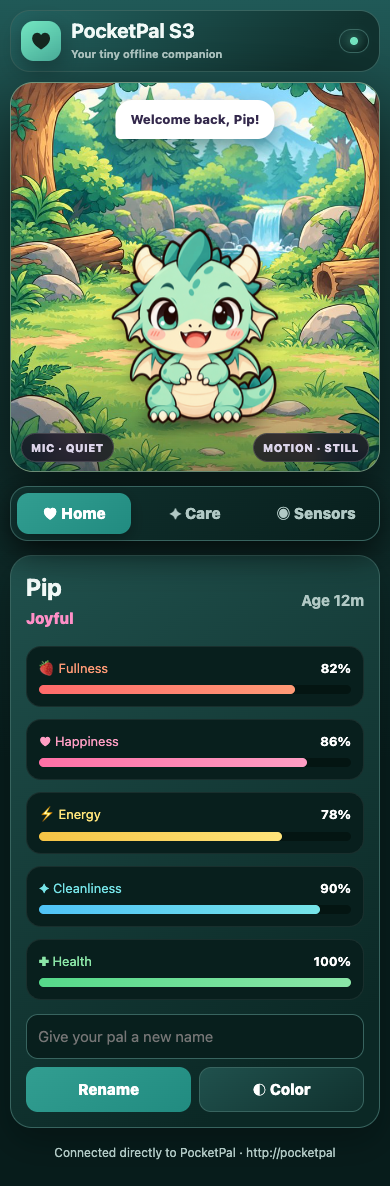
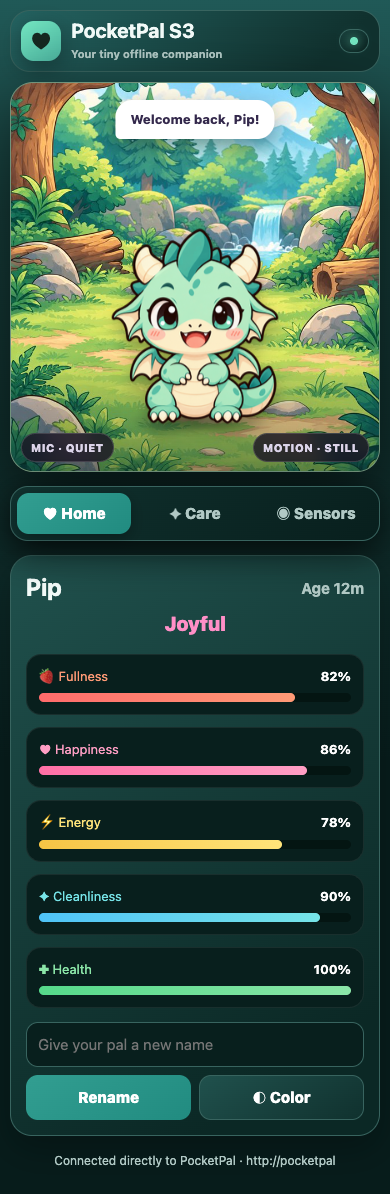
feat: center and enlarge Home mood status

diff --git a/src/WebPortal.cpp b/src/WebPortal.cpp
@@ -27,7 +27,7 @@ const char kPage[] PROGMEM = R"HTML(
 *{box-sizing:border-box}body{margin:0;min-height:100vh;background:linear-gradient(180deg,var(--page-top) 0,var(--base) 210px,var(--bg) 760px);background-color:var(--bg);font:15px/1.4 ui-rounded,system-ui,-apple-system,sans-serif;color:var(--ink)}button,input,select{font:inherit}button{color:inherit}main{width:min(100%,820px);margin:auto;padding:18px 18px 34px}.topbar{display:flex;align-items:center;justify-content:space-between;margin:0 0 14px;padding:12px;border:1px solid var(--line);border-radius:20px;background:linear-gradient(135deg,var(--header-top),var(--surface) 85%)}.brand{display:flex;align-items:center;gap:10px}.logo{display:grid;place-items:center;width:40px;height:40px;border-radius:13px;background:linear-gradient(145deg,var(--mint),#4bb39f);color:#152820;font-size:23px;box-shadow:0 8px 24px #0005}.brand h1{margin:0;font-size:22px;line-height:1}.brand small{display:block;margin-top:5px;color:var(--muted);font-weight:650}.online{display:flex;align-items:center;gap:7px;padding:7px 10px;border:1px solid var(--line);border-radius:99px;background:linear-gradient(145deg,var(--surface2),var(--input));color:var(--ink);font-size:12px;font-weight:800}.dot{width:8px;height:8px;border-radius:50%;background:var(--mint);box-shadow:0 0 12px var(--mint)}
 .room{position:relative;height:390px;overflow:hidden;border:1px solid #71937c;border-radius:30px;background:#365941 url('/room/forest-wide.jpg') center center/cover no-repeat;box-shadow:0 24px 70px #0009}.room:before{content:'';position:absolute;inset:0;background:linear-gradient(transparent 70%,#10251d66);pointer-events:none}.ground-shadow{position:absolute;z-index:2;left:50%;bottom:45px;width:165px;height:25px;transform:translateX(-50%);border-radius:50%;background:radial-gradient(ellipse,#16382980,transparent 70%);filter:blur(3px)}.bubble{position:absolute;z-index:4;top:22px;left:50%;max-width:min(330px,62%);transform:translateX(-50%);padding:10px 15px;border-radius:17px 17px 17px 5px;background:#fff;color:#34294c;font-weight:800;text-align:center;box-shadow:0 8px 22px #0005}.room-meta{position:absolute;z-index:5;left:18px;right:18px;bottom:13px;display:flex;justify-content:space-between;pointer-events:none}.chip{padding:6px 9px;border:1px solid #ffffff25;border-radius:99px;background:#171122c9;backdrop-filter:blur(8px);color:#ddd5ea;font-size:11px;font-weight:850;text-transform:uppercase;letter-spacing:.04em}
 .pet{position:absolute;z-index:3;left:50%;bottom:49px;width:230px;height:230px;transform:translateX(-50%);transform-origin:50% 95%;animation:bob 2.2s ease-in-out infinite}.dragon{display:block;width:100%;height:100%;object-fit:contain;filter:drop-shadow(0 10px 8px #0004)}.pet.sleeping{animation:none}.pet.sleeping:after{content:'Z z';position:absolute;right:12px;top:72px;color:#fff;font-weight:900;font-size:23px}.pet.excited{animation:bob .72s ease-in-out infinite}.pet.surprised{animation:jump .42s ease-out infinite}.pet.motion-tilt-left{animation:none;transform:translateX(-56%) rotate(-7deg)}.pet.motion-tilt-right{animation:none;transform:translateX(-44%) rotate(7deg)}.pet.motion-tilt-forward{animation:none;transform:translateX(-50%) scale(.94)}.pet.motion-tilt-back{animation:none;transform:translateX(-50%) scale(1.06)}.pet.motion-shake{animation:shake .18s linear infinite}.pet.motion-rocking{animation:rock .7s ease-in-out infinite}
-.tabs{display:grid;grid-template-columns:repeat(3,1fr);gap:7px;margin:14px 0;padding:6px;border:1px solid var(--line);border-radius:18px;background:linear-gradient(135deg,var(--surface),var(--input))}.tab{border:0;border-radius:12px;padding:10px;background:transparent;color:var(--muted);font-weight:850;cursor:pointer}.tab.active{background:linear-gradient(145deg,var(--button-top),var(--accent));color:#fff;box-shadow:0 5px 14px #0004}.panel{display:none}.panel.active{display:block}.card{padding:18px;border:1px solid var(--line);border-radius:22px;background:linear-gradient(145deg,var(--card-top),var(--panel) 85%);box-shadow:0 14px 35px #0004}.section-title{display:flex;align-items:flex-start;justify-content:space-between;gap:12px;margin-bottom:15px}.section-title h2,.identity h2{margin:0;font-size:24px}.section-title p{margin:4px 0 0;color:var(--muted)}.identity{display:flex;align-items:center;justify-content:space-between;gap:12px}.mood{margin-top:3px;color:var(--pink);font-weight:850;text-transform:capitalize}.age{color:var(--muted);font-weight:700}.stats{display:grid;grid-template-columns:repeat(2,1fr);gap:12px;margin-top:17px}.stat{padding:12px;border:1px solid #ffffff12;border-radius:15px;background:var(--input)}.stat label{display:flex;justify-content:space-between;color:var(--muted);font-size:13px}.stat b{color:#fff}.track,.meter{height:9px;margin-top:8px;border-radius:99px;background:var(--track);overflow:hidden}.fill,.meter-fill{height:100%;width:0;border-radius:inherit;background:linear-gradient(90deg,var(--pink),var(--sun));transition:width .3s}.settings{display:flex;gap:8px;margin-top:14px}.settings input{min-width:0;flex:1;border:1px solid var(--line);border-radius:12px;padding:11px;background:var(--input);color:#fff}.primary,.secondary{border:0;border-radius:12px;padding:11px 14px;background:linear-gradient(145deg,var(--button-top),var(--accent));color:#fff;font-weight:850;cursor:pointer}.secondary{border:1px solid var(--line);background:linear-gradient(145deg,var(--card-top),var(--surface))}.primary:active,.secondary:active,.action:active{transform:translateY(1px)}
+.tabs{display:grid;grid-template-columns:repeat(3,1fr);gap:7px;margin:14px 0;padding:6px;border:1px solid var(--line);border-radius:18px;background:linear-gradient(135deg,var(--surface),var(--input))}.tab{border:0;border-radius:12px;padding:10px;background:transparent;color:var(--muted);font-weight:850;cursor:pointer}.tab.active{background:linear-gradient(145deg,var(--button-top),var(--accent));color:#fff;box-shadow:0 5px 14px #0004}.panel{display:none}.panel.active{display:block}.card{padding:18px;border:1px solid var(--line);border-radius:22px;background:linear-gradient(145deg,var(--card-top),var(--panel) 85%);box-shadow:0 14px 35px #0004}.section-title{display:flex;align-items:flex-start;justify-content:space-between;gap:12px;margin-bottom:15px}.section-title h2,.identity h2{margin:0;font-size:24px}.section-title p{margin:4px 0 0;color:var(--muted)}.identity{display:flex;align-items:center;justify-content:space-between;gap:12px}.mood{margin-top:6px;text-align:center;font-size:20px;line-height:1.3;color:var(--pink);font-weight:850;text-transform:capitalize}.age{color:var(--muted);font-weight:700}.stats{display:grid;grid-template-columns:repeat(2,1fr);gap:12px;margin-top:17px}.stat{padding:12px;border:1px solid #ffffff12;border-radius:15px;background:var(--input)}.stat label{display:flex;justify-content:space-between;color:var(--muted);font-size:13px}.stat b{color:#fff}.track,.meter{height:9px;margin-top:8px;border-radius:99px;background:var(--track);overflow:hidden}.fill,.meter-fill{height:100%;width:0;border-radius:inherit;background:linear-gradient(90deg,var(--pink),var(--sun));transition:width .3s}.settings{display:flex;gap:8px;margin-top:14px}.settings input{min-width:0;flex:1;border:1px solid var(--line);border-radius:12px;padding:11px;background:var(--input);color:#fff}.primary,.secondary{border:0;border-radius:12px;padding:11px 14px;background:linear-gradient(145deg,var(--button-top),var(--accent));color:#fff;font-weight:850;cursor:pointer}.secondary{border:1px solid var(--line);background:linear-gradient(145deg,var(--card-top),var(--surface))}.primary:active,.secondary:active,.action:active{transform:translateY(1px)}
 .actions{display:grid;grid-template-columns:repeat(5,1fr);gap:10px}.action{min-height:104px;border:1px solid #ffffff17;border-radius:18px;padding:13px 8px;background:linear-gradient(145deg,var(--card-top),var(--panel) 85%);color:#fff;cursor:pointer}.action span{display:block;font-size:29px}.action b{display:block;margin-top:7px}.action small{display:block;margin-top:3px;color:var(--muted);font-size:11px}.action:hover{border-color:var(--muted);background:var(--accent-hover)}.sensor-grid{display:grid;grid-template-columns:1fr 1fr;gap:12px}.sensor{padding:16px;border:1px solid var(--line);border-radius:18px;background:linear-gradient(145deg,var(--card-top),var(--panel) 85%)}.sensor.motion{border-color:var(--line)}.sensor-head{display:flex;justify-content:space-between;align-items:center;gap:10px}.sensor-title{font-weight:900}.sensor-state{color:var(--mint);font-size:12px;font-weight:900;text-transform:capitalize}.meter{height:12px;margin:14px 0 12px}.meter-fill{background:linear-gradient(90deg,var(--mint),var(--sun),var(--pink))}.controls{display:flex;align-items:center;justify-content:space-between;gap:8px;flex-wrap:wrap}.controls label{color:var(--muted);font-size:12px}.controls select{margin-left:4px;padding:8px;border:1px solid var(--line);border-radius:10px;background:var(--input);color:#fff}.note{margin:12px 0 0;color:var(--muted);font-size:12px}.privacy{margin-top:12px;padding:12px;border:1px solid var(--line);border-radius:14px;background:var(--input);color:var(--muted);font-size:12px}.foot{text-align:center;color:var(--muted);font-size:12px;margin:17px 0 0}
 @keyframes bob{50%{transform:translate(-50%,-7px)}}@keyframes jump{50%{transform:translate(-50%,-18px) scale(1.06)}}@keyframes shake{25%{transform:translateX(-57%) rotate(-4deg)}75%{transform:translateX(-43%) rotate(4deg)}}@keyframes rock{25%{transform:translateX(-50%) rotate(-9deg)}75%{transform:translateX(-50%) rotate(9deg)}}
 @media(max-width:620px){main{padding:10px 10px 24px}.topbar{margin:0 0 10px;padding:10px}.brand h1{font-size:20px}.brand small{font-size:11px}.online span:last-child{display:none}.room{height:390px;border-radius:23px;background-image:url('/room/forest-mobile.jpg');background-position:center 65%}.ground-shadow{bottom:36px;width:140px}.bubble{top:17px;max-width:66%;font-size:13px}.pet{bottom:39px;width:200px;height:200px}.room-meta{left:10px;right:10px;bottom:9px}.tabs{position:sticky;z-index:20;bottom:8px;order:3;box-shadow:0 10px 35px #000b}.stats,.sensor-grid{grid-template-columns:1fr}.actions{grid-template-columns:repeat(2,1fr)}.action{min-height:91px}.action:last-child{grid-column:1/-1}.card{padding:15px}.settings{flex-direction:column}}
@@ -53,7 +53,7 @@ const char kPage[] PROGMEM = R"HTML(
 <header class="topbar"><div class="brand"><div class="logo">♥</div><div><h1>PocketPal S3</h1><small>Your tiny offline companion</small></div></div><div class="online"><span class="dot"></span><span>Local &amp; live</span></div></header>
 <section class="room" aria-label="PocketPal forest clearing"><div id="bubble" class="bubble" aria-live="polite">Waking up…</div><div class="ground-shadow"></div><div id="pet" class="pet"><img id="dragon" class="dragon" src="/pet/idle.png" alt="Mint-green PocketPal dragon" width="240" height="240"></div><div class="room-meta"><span id="soundChip" class="chip">Mic · calibrating</span><span id="motionChip" class="chip">Motion · calibrating</span></div></section>
 <nav class="tabs" aria-label="PocketPal sections"><button class="tab active" data-panel="home" onclick="showPanel('home')">♥ Home</button><button class="tab" data-panel="care" onclick="showPanel('care')">✦ Care</button><button class="tab" data-panel="sensors" onclick="showPanel('sensors')">◉ Sensors</button></nav>
-<section id="home" class="panel active"><div class="card"><div class="identity"><div><h2 id="name">Pip</h2><div id="mood" class="mood">Content</div></div><div id="age" class="age">Age 0m</div></div><div id="stats" class="stats"></div><form class="settings" onsubmit="renamePet(event)"><input id="newName" maxlength="12" aria-label="New pet name" placeholder="Give your pal a new name"><button class="primary">Rename</button><button id="colorButton" class="secondary" type="button" aria-expanded="false" aria-controls="themePicker" onclick="toggleColors()">◐ Color</button></form><fieldset id="themePicker" class="theme-picker" hidden><legend>Choose your color</legend><div class="theme-options"><button type="button" class="theme-choice" data-theme-choice="teal" aria-pressed="true" onclick="setTheme('teal')"><span class="swatch" style="--swatch:#163D3A" aria-hidden="true"></span>Deep Forest Teal</button><button type="button" class="theme-choice" data-theme-choice="purple" aria-pressed="false" onclick="setTheme('purple')"><span class="swatch" style="--swatch:#513c77" aria-hidden="true"></span>Purple</button><button type="button" class="theme-choice" data-theme-choice="pine" aria-pressed="false" onclick="setTheme('pine')"><span class="swatch" style="--swatch:#1E352D" aria-hidden="true"></span>Dark Pine</button><button type="button" class="theme-choice" data-theme-choice="navy" aria-pressed="false" onclick="setTheme('navy')"><span class="swatch" style="--swatch:#172A3A" aria-hidden="true"></span>Deep Navy</button><button type="button" class="theme-choice" data-theme-choice="charcoal" aria-pressed="false" onclick="setTheme('charcoal')"><span class="swatch" style="--swatch:#292A2D" aria-hidden="true"></span>Warm Charcoal</button><button type="button" class="theme-choice" data-theme-choice="white" aria-pressed="false" onclick="setTheme('white')"><span class="swatch" style="--swatch:#ffffff" aria-hidden="true"></span>Soft White</button></div><p id="colorMessage" class="color-message" role="status">Saved on your PocketPal.</p></fieldset></div></section>
+<section id="home" class="panel active"><div class="card"><div class="identity"><h2 id="name">Pip</h2><div id="age" class="age">Age 0m</div></div><div id="mood" class="mood">Content</div><div id="stats" class="stats"></div><form class="settings" onsubmit="renamePet(event)"><input id="newName" maxlength="12" aria-label="New pet name" placeholder="Give your pal a new name"><button class="primary">Rename</button><button id="colorButton" class="secondary" type="button" aria-expanded="false" aria-controls="themePicker" onclick="toggleColors()">◐ Color</button></form><fieldset id="themePicker" class="theme-picker" hidden><legend>Choose your color</legend><div class="theme-options"><button type="button" class="theme-choice" data-theme-choice="teal" aria-pressed="true" onclick="setTheme('teal')"><span class="swatch" style="--swatch:#163D3A" aria-hidden="true"></span>Deep Forest Teal</button><button type="button" class="theme-choice" data-theme-choice="purple" aria-pressed="false" onclick="setTheme('purple')"><span class="swatch" style="--swatch:#513c77" aria-hidden="true"></span>Purple</button><button type="button" class="theme-choice" data-theme-choice="pine" aria-pressed="false" onclick="setTheme('pine')"><span class="swatch" style="--swatch:#1E352D" aria-hidden="true"></span>Dark Pine</button><button type="button" class="theme-choice" data-theme-choice="navy" aria-pressed="false" onclick="setTheme('navy')"><span class="swatch" style="--swatch:#172A3A" aria-hidden="true"></span>Deep Navy</button><button type="button" class="theme-choice" data-theme-choice="charcoal" aria-pressed="false" onclick="setTheme('charcoal')"><span class="swatch" style="--swatch:#292A2D" aria-hidden="true"></span>Warm Charcoal</button><button type="button" class="theme-choice" data-theme-choice="white" aria-pressed="false" onclick="setTheme('white')"><span class="swatch" style="--swatch:#ffffff" aria-hidden="true"></span>Soft White</button></div><p id="colorMessage" class="color-message" role="status">Saved on your PocketPal.</p></fieldset></div></section>
 <section id="care" class="panel"><div class="card"><div class="section-title"><div><h2>Care time</h2><p>Every little action shapes your pal’s day.</p></div></div><div class="actions"><button class="action" onclick="act('feed')"><span>🍓</span><b>Feed</b><small>Restore fullness</small></button><button class="action" onclick="act('play')"><span>🎾</span><b>Play</b><small>Build happiness</small></button><button class="action" onclick="act('clean')"><span>🫧</span><b>Clean</b><small>Fresh and sparkly</small></button><button class="action" onclick="act('sleep')"><span>🌙</span><b>Sleep</b><small>Rest or wake up</small></button><button class="action" onclick="act('pet')"><span>💗</span><b>Pet</b><small>Share affection</small></button></div></div></section>
 <section id="sensors" class="panel"><div class="card"><div class="section-title"><div><h2>Reactions</h2><p>Live signals processed privately on your PocketPal.</p></div></div><div class="sensor-grid"><article class="sensor"><div class="sensor-head"><span class="sensor-title">🎙 Sound</span><span id="soundState" class="sensor-state">Calibrating</span></div><div class="meter"><div id="soundFill" class="meter-fill"></div></div><div class="controls"><button id="muteButton" class="secondary" onclick="setSound('toggle')">Mute</button><label>Sensitivity <select id="sensitivity" onchange="setSensitivity(this.value)"><option value="1">Low</option><option value="2">Medium</option><option value="3">High</option></select></label></div><p class="note">Reacts to loudness only. No audio is saved.</p></article><article class="sensor motion"><div class="sensor-head"><span class="sensor-title">🧭 Motion</span><span id="motionState" class="sensor-state">Calibrating</span></div><div class="meter"><div id="motionFill" class="meter-fill"></div></div><div class="controls"><label>Sensitivity <select id="motionSensitivity" onchange="setMotionSensitivity(this.value)"><option value="1">Low</option><option value="2">Medium</option><option value="3">High</option></select></label></div><p class="note">Tilt to lean, shake to play, rock to sleep.</p></article></div><div class="privacy">🔒 Everything stays between this browser and PocketPal. No internet, cloud account, recordings, or telemetry.</div></div></section>
 <p class="foot">Connected directly to PocketPal · http://pocketpal</p></main>

diff --git a/src/main.cpp b/src/main.cpp
@@ -9,7 +9,7 @@
 #include "WebPortal.h"
 
 namespace {
-constexpr char kVersion[] = "v0.6.2";
+constexpr char kVersion[] = "v0.6.3";
 constexpr uint8_t kSelectPin = 11;
 constexpr uint8_t kNextPin = 12;
 constexpr uint8_t kBrightness = 90;

diff --git a/README.md b/README.md
@@ -2,7 +2,7 @@
 
 PocketPal S3 is an interactive virtual pet with a live, offline WebUI for the M5StickS3.
 
-> **Early development — v0.6.2.** The forest WebUI has six gradient color themes, and both displays share five color-coded care stats.
+> **Early development — v0.6.3.** The forest WebUI has six gradient color themes, and both displays share five color-coded care stats.
 
 ## First milestone
 

diff --git a/CHANGELOG.md b/CHANGELOG.md
@@ -1,5 +1,9 @@
 # Changelog
 
+## v0.6.3
+
+- Centered and enlarged the Home mood status on its own row beneath the name and age.
+
 ## v0.6.2
 
 - Added Soft White as the sixth saved WebUI theme, keeping Deep Forest Teal as default.
